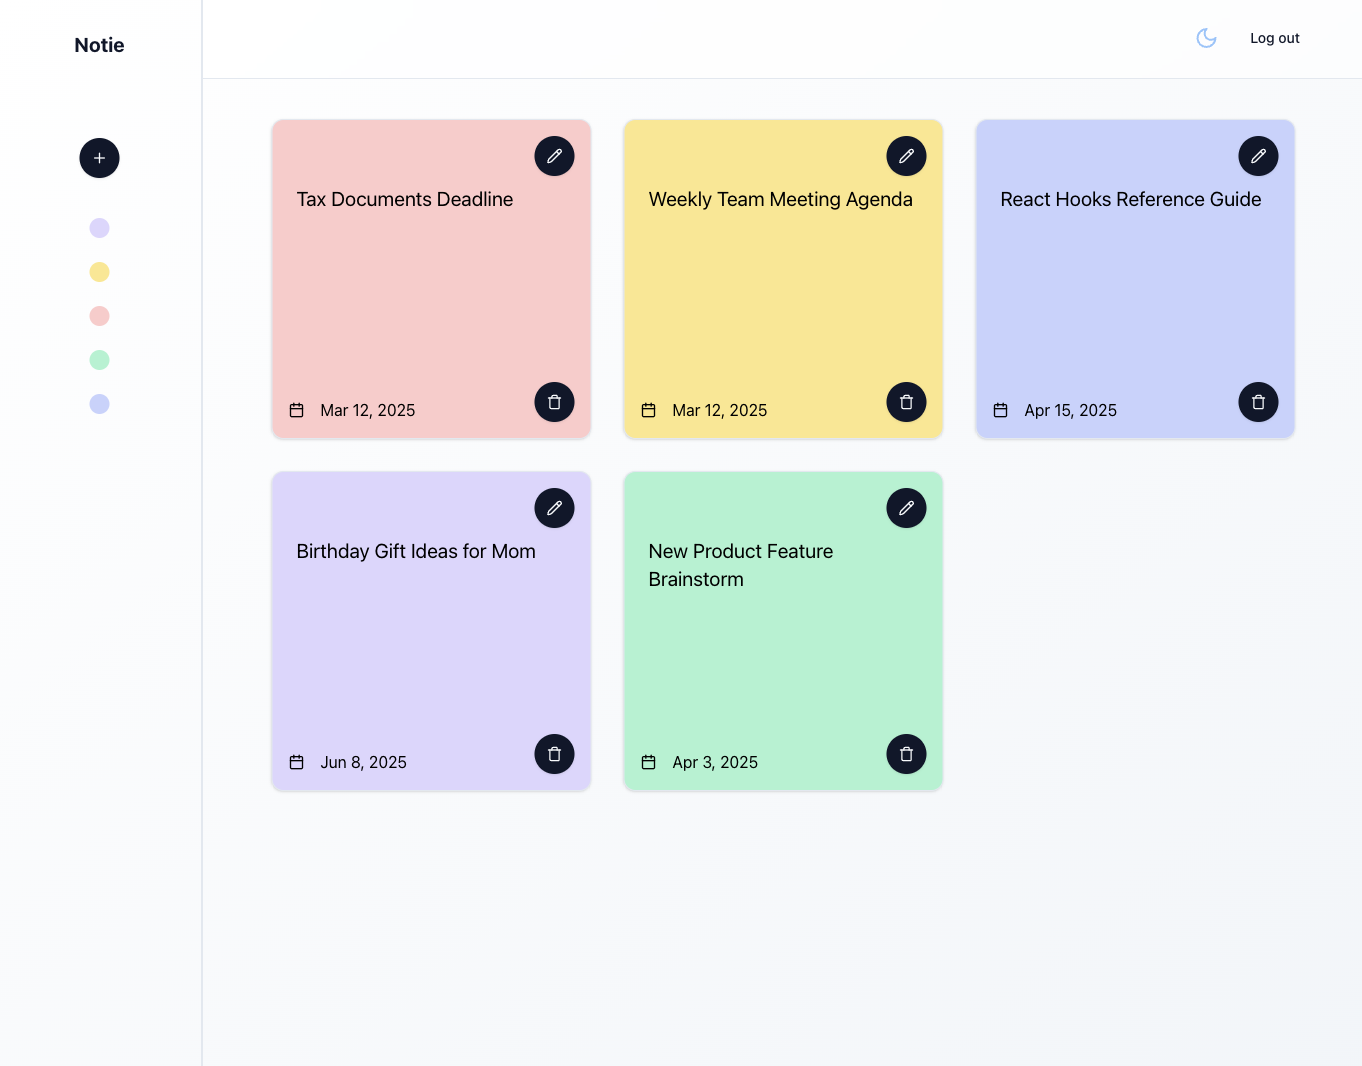
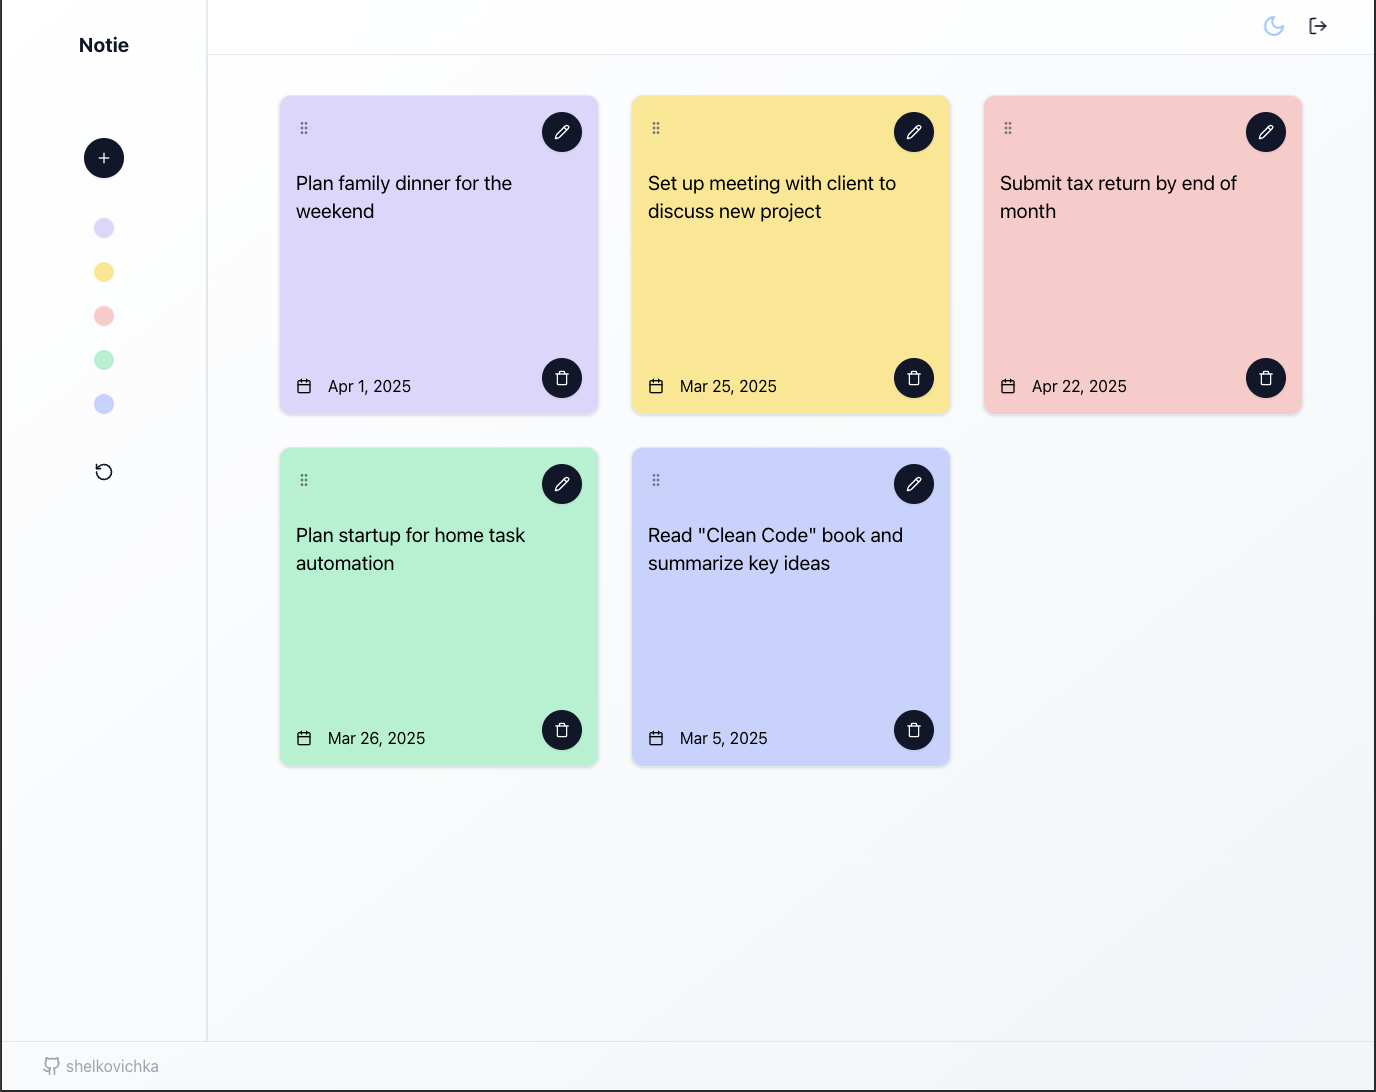
README updated

diff --git a/README.md b/README.md
@@ -11,10 +11,10 @@ A modern task management application built with React and Redux Toolkit.
 - **React** - JavaScript library for building user interfaces
 - **Redux Toolkit** - The official toolset for efficient Redux development
 - **Tailwind CSS** - A utility-first CSS framework for styling
-- **Tailwind CSS** - A utility-first CSS framework for styling
 - **React Hook Form** - Performant, flexible, and extensible forms with easy-to-use validation
 - **Yup** - JavaScript schema builder for value parsing and validation
 - **Firebase** - Backend platform for building web and mobile applications
+- **DnD Kit** - Modern, lightweight, accessible drag and drop toolkit for React
 
 ## ✨ Features
 
@@ -25,6 +25,7 @@ A modern task management application built with React and Redux Toolkit.
 - 📱 Responsive design
 - 🗂 Convenient state management with Redux Toolkit
 - 🔒 Authentication with protected routes using Firebase
+- 🔄 Drag and drop functionality for reordering tasks
 
 ## 🚀 Installation and Setup
 
